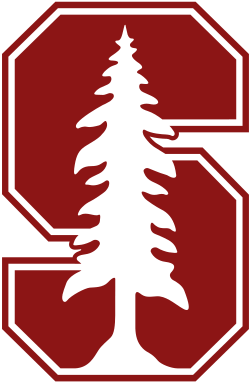
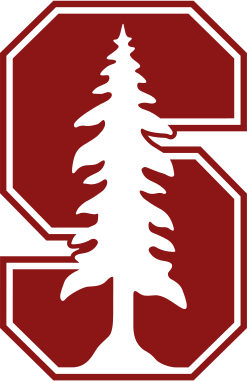
Add the offers that follow the 2019 re-rankings
With Sam, Cooper, Andrew and Jaykeb now near the top of 247's 2020 lists,
each picks up the programmes where the real recruits rated beside them
signed, plus the extra calls asked for:

  Sam     Notre Dame, Ohio State, Michigan, Penn State, Alabama
  Cooper  Stanford, Notre Dame, Georgia, Oklahoma, Michigan
  Andrew  Clemson, Notre Dame, Penn State, Georgia, Michigan, Alabama,
          Ohio State
  Jaykeb  Florida, Florida State, Miami, Georgia, Tennessee, Ohio State

Thirteen schools are new to EGE.colleges, each on the ground its mark
reads against. Their logos, uploaded to icon/offers, are fitted the way
the last batch was: ten were WebP files saved with a .png name and are
now real PNGs, and every one is trimmed to its mark and no more than
512px on its long side (Florida down from 2400px, Miami from a 3840px
canvas, Tennessee from 3840px).

Claude-Session: https://claude.ai/code/session_01C5QZR1ibJ37UekXQfoN15q

diff --git a/data/offers.js b/data/offers.js
@@ -173,7 +173,31 @@ EGE.colleges = {
   MiamiOH:       { name: 'Miami (OH)',         short: 'MIA',   ground: '#FFFFFF', ink: '#C3142D', logo: 'MiamiOH' },
   KentState:     { name: 'Kent State',         short: 'KENT',  ground: '#002664', ink: '#EAAB00', logo: 'KentState' },
   MurrayState:   { name: 'Murray State',       short: 'MUR',   ground: '#ECAC00', ink: '#002144', logo: 'MurrayState' },
-  NDSU:          { name: 'North Dakota State', short: 'NDSU',  ground: '#FFC72A', ink: '#0A5640', logo: 'NDSU' }
+  NDSU:          { name: 'North Dakota State', short: 'NDSU',  ground: '#FFC72A', ink: '#0A5640', logo: 'NDSU' },
+
+  /* --- after the 2019 re-rankings ---------------------------------------- */
+  /* The national programmes that came in once Sam, Cooper, Andrew and Jaykeb
+     climbed into the top of 247's 2020 lists. As before, the ground is the
+     school's second colour wherever the mark is drawn in its first: the
+     crimson A on Alabama's grey, the orange paw on Clemson purple, the
+     Gator on Florida blue, the Seminole on gold, the Georgia G on red
+     (black would make three black stickers on Andrew's header), the U on
+     Miami green, the block M on navy, the navy ND on gold and Ohio State on
+     its grey. Tennessee's orange T is on white rather than its smokey grey,
+     so it does not sit beside Ohio State's grey on Jaykeb's header. */
+  Alabama:       { name: 'Alabama',            short: 'BAMA',  ground: '#828A8F', ink: '#9E1B32', logo: 'Alabama' },
+  Clemson:       { name: 'Clemson',            short: 'CLEM',  ground: '#522D80', ink: '#F56600', logo: 'Clemson' },
+  Florida:       { name: 'Florida',            short: 'UF',    ground: '#0021A5', ink: '#FA4616', logo: 'Florida' },
+  FloridaState:  { name: 'Florida State',      short: 'FSU',   ground: '#CEB888', ink: '#782F40', logo: 'FloridaState' },
+  Georgia:       { name: 'Georgia',            short: 'UGA',   ground: '#BA0C2F', ink: '#FFFFFF', logo: 'Georgia' },
+  Miami:         { name: 'Miami',              short: 'MIA',   ground: '#005030', ink: '#F47321', logo: 'Miami' },
+  Michigan:      { name: 'Michigan',           short: 'MICH',  ground: '#00274C', ink: '#FFCB05', logo: 'Michigan' },
+  NotreDame:     { name: 'Notre Dame',         short: 'ND',    ground: '#C99700', ink: '#0C2340', logo: 'NotreDame' },
+  OhioState:     { name: 'Ohio State',         short: 'OSU',   ground: '#666666', ink: '#FFFFFF', logo: 'OhioState' },
+  Oklahoma:      { name: 'Oklahoma',           short: 'OU',    ground: '#FFFFFF', ink: '#841617', logo: 'Oklahoma' },
+  PennState:     { name: 'Penn State',         short: 'PSU',   ground: '#FFFFFF', ink: '#041E42', logo: 'PennState' },
+  Stanford:      { name: 'Stanford',           short: 'STAN',  ground: '#FFFFFF', ink: '#8C1515', logo: 'Stanford' },
+  Tennessee:     { name: 'Tennessee',          short: 'TENN',  ground: '#FFFFFF', ink: '#FF8200', logo: 'Tennessee' }
 };
 
 /* Who has offered whom. Add a key to a list and the sticker is on the page;
@@ -182,21 +206,26 @@ EGE.offers = {
   'sam-stogsdill': ['ISU', 'EIU', 'SIU', 'INDY', 'SEMO',
                     'NIU', 'BallState', 'WMU', 'EMU', 'CMU', 'Toledo', 'UNI', 'WIU',
                     'Illinois', 'Iowa', 'Minnesota', 'Indiana', 'Purdue', 'IowaState',
-                    'Wisconsin', 'Nebraska', 'MichiganState', 'Northwestern'],
+                    'Wisconsin', 'Nebraska', 'MichiganState', 'Northwestern',
+                    'NotreDame', 'OhioState', 'Michigan', 'PennState', 'Alabama'],
   'paxon-hatch':   ['ISU', 'UNI', 'WIU', 'EIU', 'SIU',
                     'INDY', 'YSU', 'SouthDakota', 'NIU', 'BallState',
                     'MiamiOH', 'WMU', 'Toledo', 'EMU', 'MurrayState', 'NDSU'],
   'cooper-clark':  ['SacState', 'UCDavis', 'CalPoly', 'SDSU', 'Fresno', 'SJSU',
                     'Nevada', 'UNLV', 'ColoState', 'Boise', 'Arizona', 'ASU',
                     'WSU', 'Hawaii', 'UtahState', 'OregonState', 'Colorado', 'Utah', 'Cal',
-                    'UCLA', 'Washington', 'Oregon', 'BYU', 'USC'],
+                    'UCLA', 'Washington', 'Oregon', 'BYU', 'USC',
+                    'Stanford', 'NotreDame', 'Georgia', 'Oklahoma', 'Michigan'],
   'jaykeb-stewart': ['GaSouthern', 'FAU', 'FIU', 'UCF', 'USF', 'Bethune',
                      'Charlotte', 'SouthAlabama', 'FAMU', 'JaxState', 'WKU',
-                     'GeorgiaTech', 'WestVirginia', 'Louisville', 'Syracuse', 'Kentucky', 'Memphis'],
+                     'GeorgiaTech', 'WestVirginia', 'Louisville', 'Syracuse', 'Kentucky', 'Memphis',
+                     'Florida', 'FloridaState', 'Miami', 'Georgia', 'Tennessee', 'OhioState'],
   'andrew-parr':   ['ODU', 'JMU', 'Elon', 'NCCentral',
                     'AppState', 'ECU', 'Charlotte', 'Coastal', 'Army', 'Navy',
                     'WakeForest', 'NCState', 'Duke',
-                    'UNC', 'VirginiaTech', 'SouthCarolina', 'Maryland', 'Louisville'],
+                    'UNC', 'VirginiaTech', 'SouthCarolina', 'Maryland', 'Louisville',
+                    'Clemson', 'NotreDame', 'PennState', 'Georgia', 'Michigan',
+                    'Alabama', 'OhioState'],
   'isaac-vitel':   ['ISU', 'EIU', 'WIU', 'SIU', 'SEMO', 'INDY', 'NIU', 'BallState', 'UNI',
                     'Illinois', 'Toledo', 'WMU', 'Buffalo', 'MiamiOH', 'KentState']
 };
